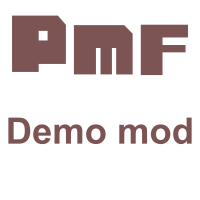
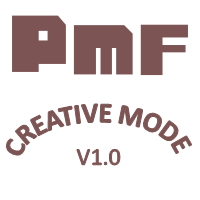
Final version of creative mode code for launch.

Changed region(s): [[0.03, 0.51, 0.96, 0.84]]

diff --git a/CreativeMode/Properties/AssemblyInfo.cs b/CreativeMode/Properties/AssemblyInfo.cs
@@ -35,5 +35,5 @@ using System.Runtime.InteropServices;
 // [assembly: AssemblyVersion("1.0.*")]
 [assembly: AssemblyVersion("0.1.0.0")]
 [assembly: AssemblyFileVersion("0.1.0.0")]
-[assembly: MelonInfo(typeof(CreativeMode.CreativeMode), "A creative mode mod for Primitier using a custom version of PrimitierModdingFrameworkV0.2", "0.1.0", "totalJTM")]
+[assembly: MelonInfo(typeof(CreativeMode.CreativeMode), "A creative mode mod for Primitier using a custom version of PrimitierModdingFrameworkV0.2", "0.1.0", "TotalJTM")]
 [assembly: MelonGame("PrimitierDev", "Primitier")]

diff --git a/CreativeMode/Properties/README.md b/CreativeMode/Properties/README.md
@@ -1,5 +1,5 @@
 ### Primitier Creative Mode Mod ###
-Version 0.1         Created by totalJTM
+Version 0.1         Created by TotalJTM
 
 ## Overview and Features ##
 This mod adds a creative mode menu to the PrimitierModdingFramework menu. With this mod, you can:
@@ -11,6 +11,8 @@ This mod adds a creative mode menu to the PrimitierModdingFramework menu. With t
 
 ## Installation ##
 This mod should be installed with the [PMFModManager](https://github.com/Xgames123/PrimitierModManager).
+
+Open the ```PrimitierCreativeModeFilesV0.1.zip``` file and drag the two zip files ```PrimitierCreativeModeV0.1.zip``` and ```PrimitierModFrameworkJTM_V0.2.1.zip``` into the mod manager. Load order does not seem to matter but I always load the modified framework first.
 
 ## Future Mod Additions ##
 - [] flying through joystick commands
